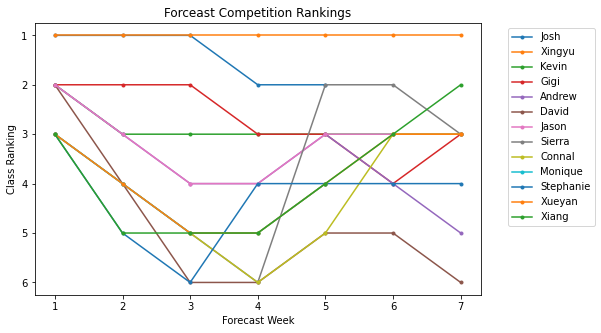
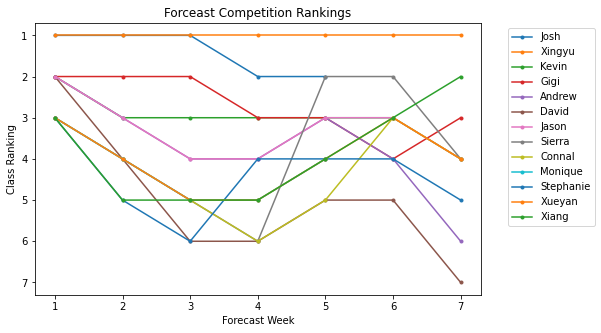
Fix XiZhang's entry and change everything accordingly

diff --git a/evaluation_scripts/bonus/bonus_wk7.py b/evaluation_scripts/bonus/bonus_wk7.py
@@ -41,6 +41,7 @@ nopoints_list = all_list[(all_list["1week_points"] +
                           all_list["2week_points"]) == 0].index
 freq = freq.loc[nopoints_list, :]
 freq = freq.sort_values(by=['freq'])
+print(freq)
 
 # %%
 # Pick bonux getting names by lowest frequency of getting points

diff --git a/Scoreboard.md b/Scoreboard.md
@@ -3,17 +3,17 @@
 
 |      | Name    | Points    |
 |:-----|---------|---------  |
-|  1   |  Xingyu    | 11     |
+|  1   |  Xingyu    | 10     |
 |  2   |  Xiang     |  9     |
-|  3   |  Sierra    |  7     |
-|  3   |  Connal    |  7     |
-|  3   |  Kevin     |  7     |
-|  3   |  Gigi      |  7     |
-|  3   |  Jason     |  7     |
-|  3   |  Xueyan    |  7     |
-|  4   |  Stephanie |  6     |
-|  5   |  Andrew    |  5     |
-|  6   |  David     |  4     |
+|  3   |  Gigi      |  8     |
+|  4   |  Sierra    |  7     |
+|  4   |  Connal    |  7     |
+|  4   |  Kevin     |  7     |
+|  4   |  Jason     |  7     |
+|  4   |  Xueyan    |  7     |
+|  5   |  Stephanie |  6     |
+|  6   |  Andrew    |  5     |
+|  7   |  David     |  4     |
 
 
 # Detailed points summary:
@@ -106,7 +106,7 @@
 - **2 Week Forecasts**:
   - First place: 150 cfs, Xiang
   - Second place: 174 cfs, Connal
-  - Third place: 180 cfs, Xingyu
+  - Third place: 115 cfs, Gigi
 - **Bonus points**
   - Kevin, David, Xueyan
   - Based on the lowest frequency of getting points (bonus points not included).
